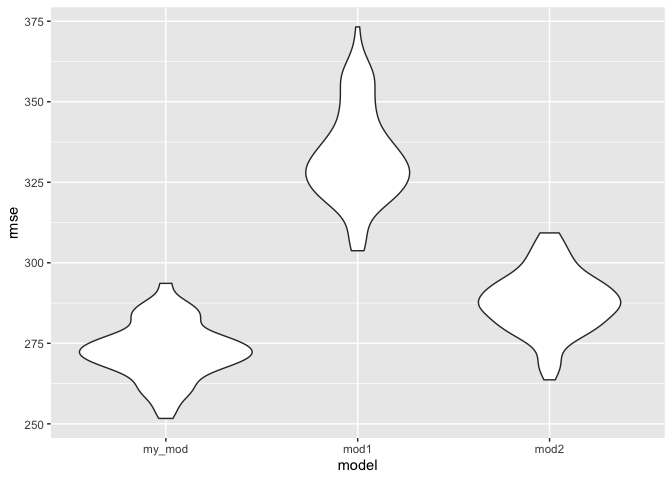
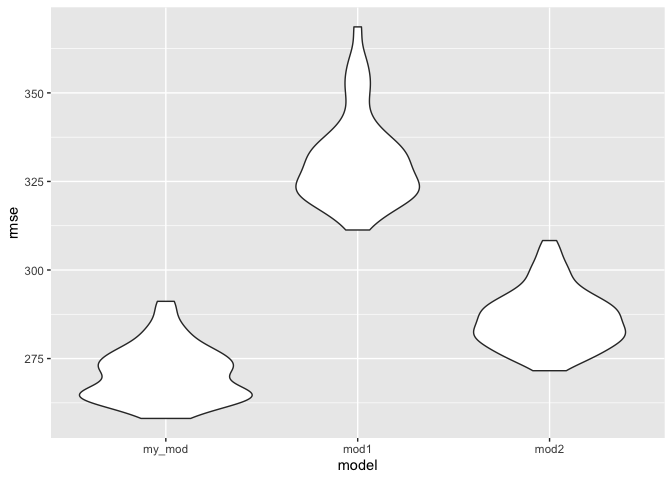
started problem 2

diff --git a/p8105_hw6_bsr2136.md b/p8105_hw6_bsr2136.md
@@ -158,7 +158,11 @@ birthwtdf %>%
 
 ![](p8105_hw6_bsr2136_files/figure-gfm/p1%20plot-1.png)<!-- -->
 
-### Comparing the model with 2 others
+The spread of the residuals looks random, which is a good indication
+that our model did not miss an important
+predictor.
+
+### Comparing the model with 2 others by plotting prediction error distributions
 
 ``` r
 model1 <- lm(bwt ~ blength + gaweeks, data = birthwt)
@@ -192,4 +196,85 @@ cv_df3 %>%
 
 ![](p8105_hw6_bsr2136_files/figure-gfm/p1%20model%20comparison-1.png)<!-- -->
 
+The RMSE is the lowest for the model I created, which suggests it is the
+best fit model of the three. Mod2 is fairly close, and mod1 is not as
+good a fit.
+
 ## Problem 2
+
+### Loading the data, Bootstrap, models, and results
+
+``` r
+weather_df = 
+  rnoaa::meteo_pull_monitors(
+    c("USW00094728"),
+    var = c("PRCP", "TMIN", "TMAX"), 
+    date_min = "2017-01-01",
+    date_max = "2017-12-31") %>%
+  mutate(
+    name = recode(id, USW00094728 = "CentralPark_NY"),
+    tmin = tmin / 10,
+    tmax = tmax / 10) %>%
+  select(name, id, everything())
+```
+
+    ## Registered S3 method overwritten by 'crul':
+    ##   method                 from
+    ##   as.character.form_file httr
+
+    ## Registered S3 method overwritten by 'hoardr':
+    ##   method           from
+    ##   print.cache_info httr
+
+    ## file path:          /Users/barikrajpal/Library/Caches/rnoaa/ghcnd/USW00094728.dly
+
+    ## file last updated:  2019-09-26 10:21:26
+
+    ## file min/max dates: 1869-01-01 / 2019-09-30
+
+``` r
+boots_df <- weather_df %>%
+  bootstrap(n=5000) %>%
+  mutate(
+    models = map(strap, ~lm(tmax ~ tmin, data = .x) ),
+    results = map(models, broom::glance),
+    results2 = map(models, broom::tidy)) 
+```
+
+### Plotting r.squared and constructing a 95% confidence interval
+
+``` r
+boots_df_r2 <- boots_df %>%
+  select(-strap, -models) %>% 
+  unnest(results) %>%
+  select(.id,r.squared)
+
+boots_df_r2 %>% 
+  pull(r.squared) %>%
+  as.vector() %>%
+  quantile(probs=c(0.025, 0.975))
+```
+
+    ##      2.5%     97.5% 
+    ## 0.8936771 0.9271360
+
+### Plotting log(b0\*b1) and constructing a 95$ confidence interval
+
+``` r
+boots_df_logb0b1 <- boots_df %>%
+  select(-strap, -models) %>% 
+  unnest(results2) %>%
+  select(.id,term,estimate) %>%
+  pivot_wider(names_from = term,
+              values_from = estimate) %>%
+  janitor::clean_names() %>%
+  mutate(logb0b1 = log(intercept*tmin))
+
+boots_df_logb0b1 %>% 
+  pull(logb0b1) %>%
+  as.vector() %>%
+  quantile(probs=c(0.025, 0.975))
+```
+
+    ##     2.5%    97.5% 
+    ## 1.966186 2.059551
